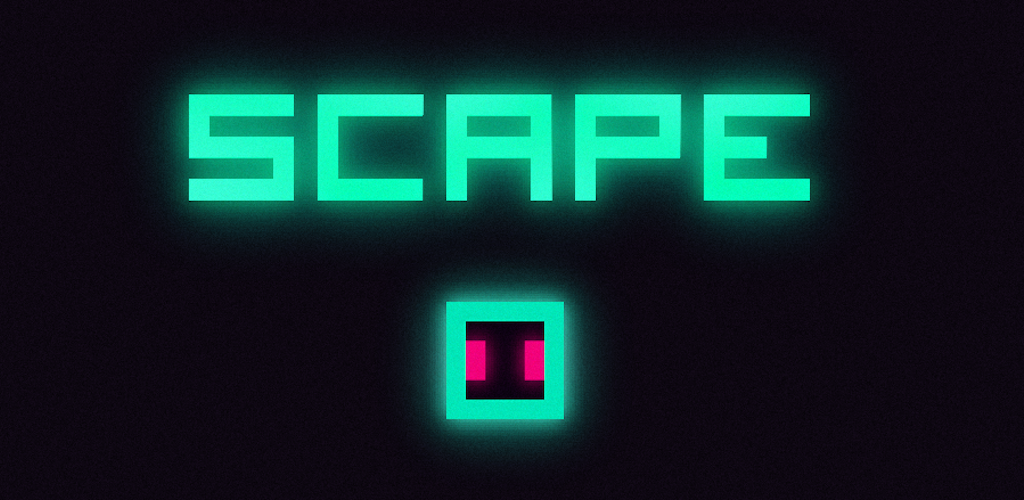
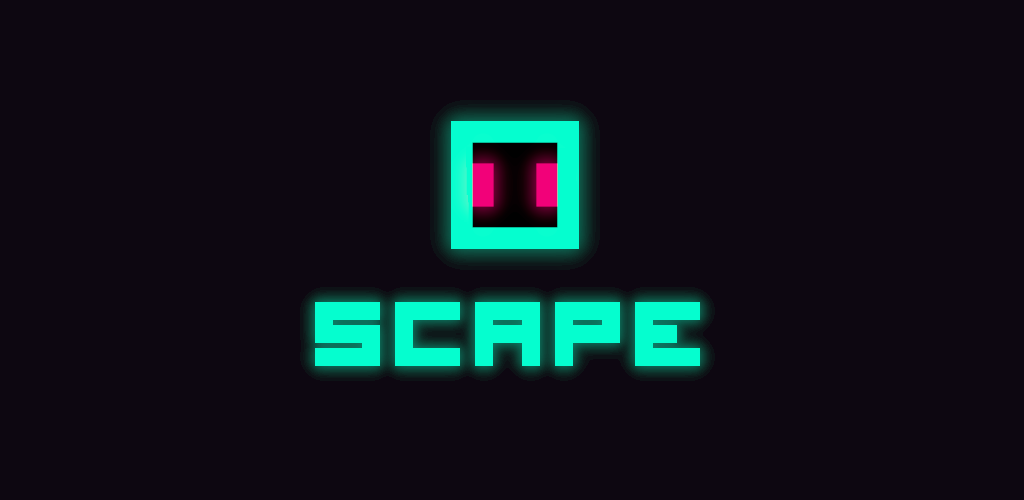
Improve feature graphic

Changed region(s): [[0.1562, 0.12, 0.8125, 0.9]]

diff --git a/README.md b/README.md
@@ -1,4 +1,4 @@
-![scape](scape.png)
+![scape](android/src/main/play/listings/en-GB/graphics/feature-graphic/1.png)
 
 A fast-paced platformer with vibrant neon colours, initially inspired by [Yoo Ninja](https://yoo-ninja-free.en.uptodown.com/android).
 >  The grid. A digital frontier. I tried to picture clusters of information as they moved through the computer. What did they look like? Ships, motorcycles. With the circuits like freeways. I kept dreaming of a world I thought I'd never see. And then one day, I got in.
